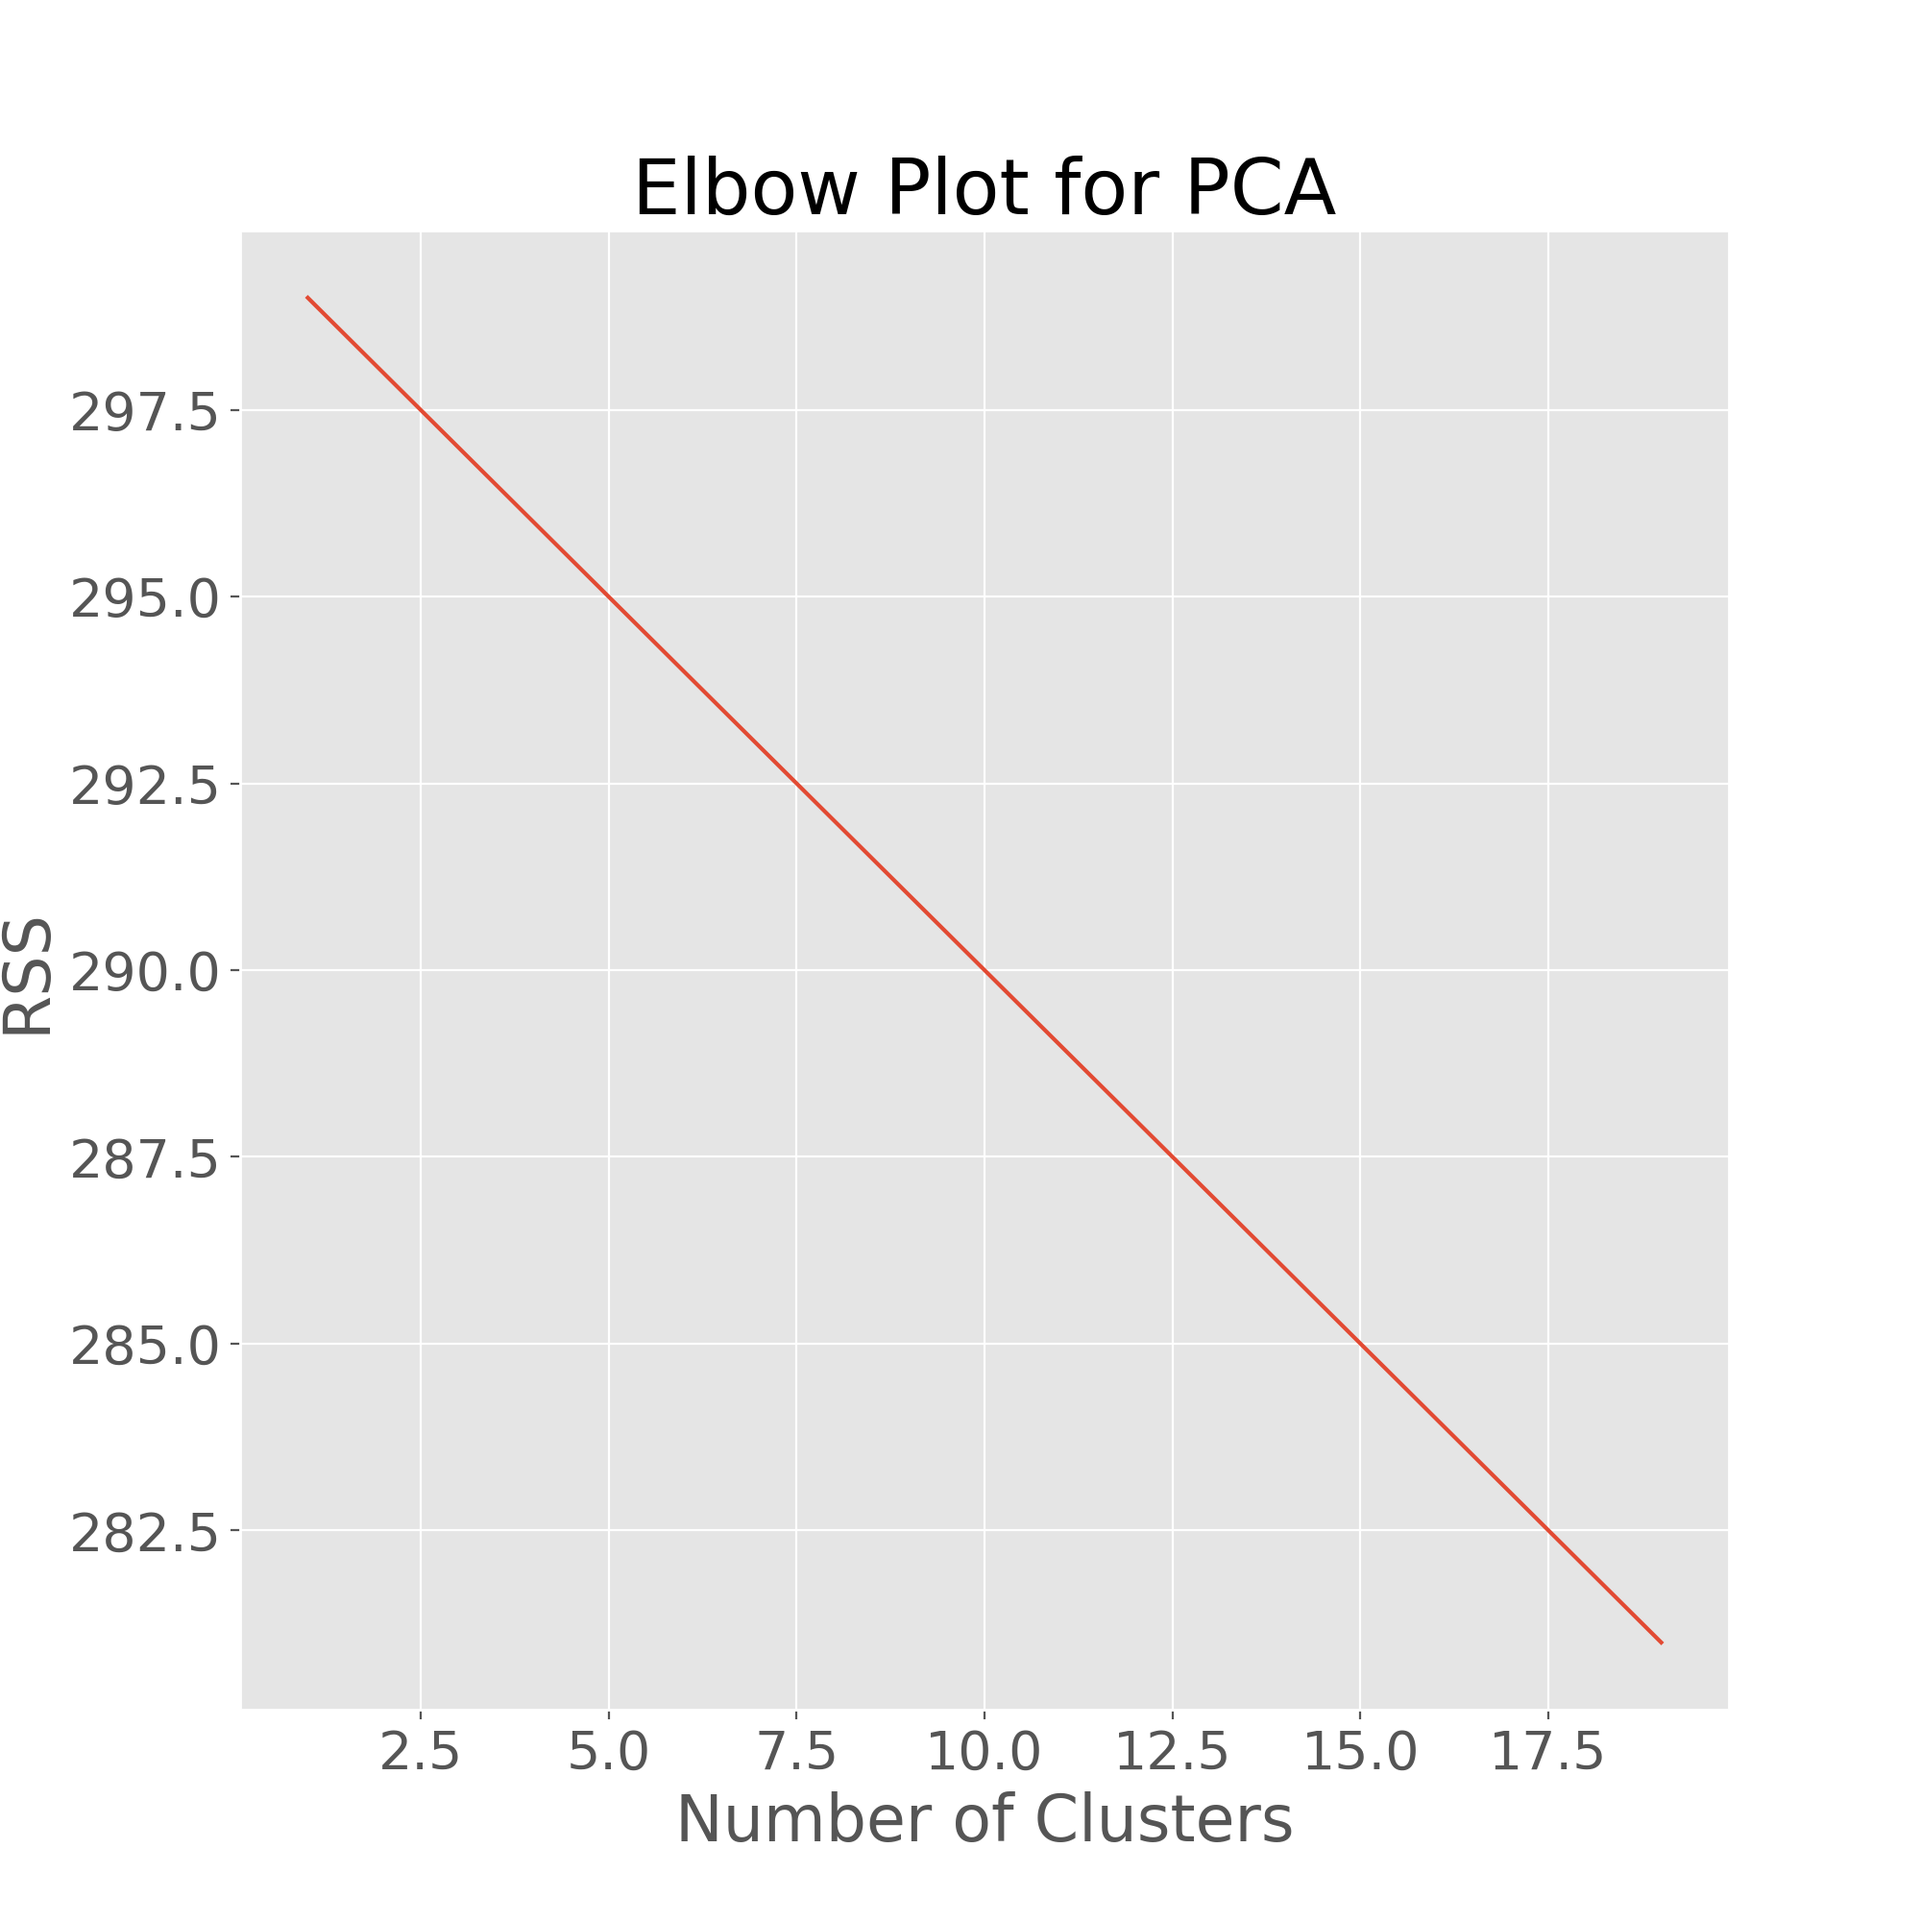
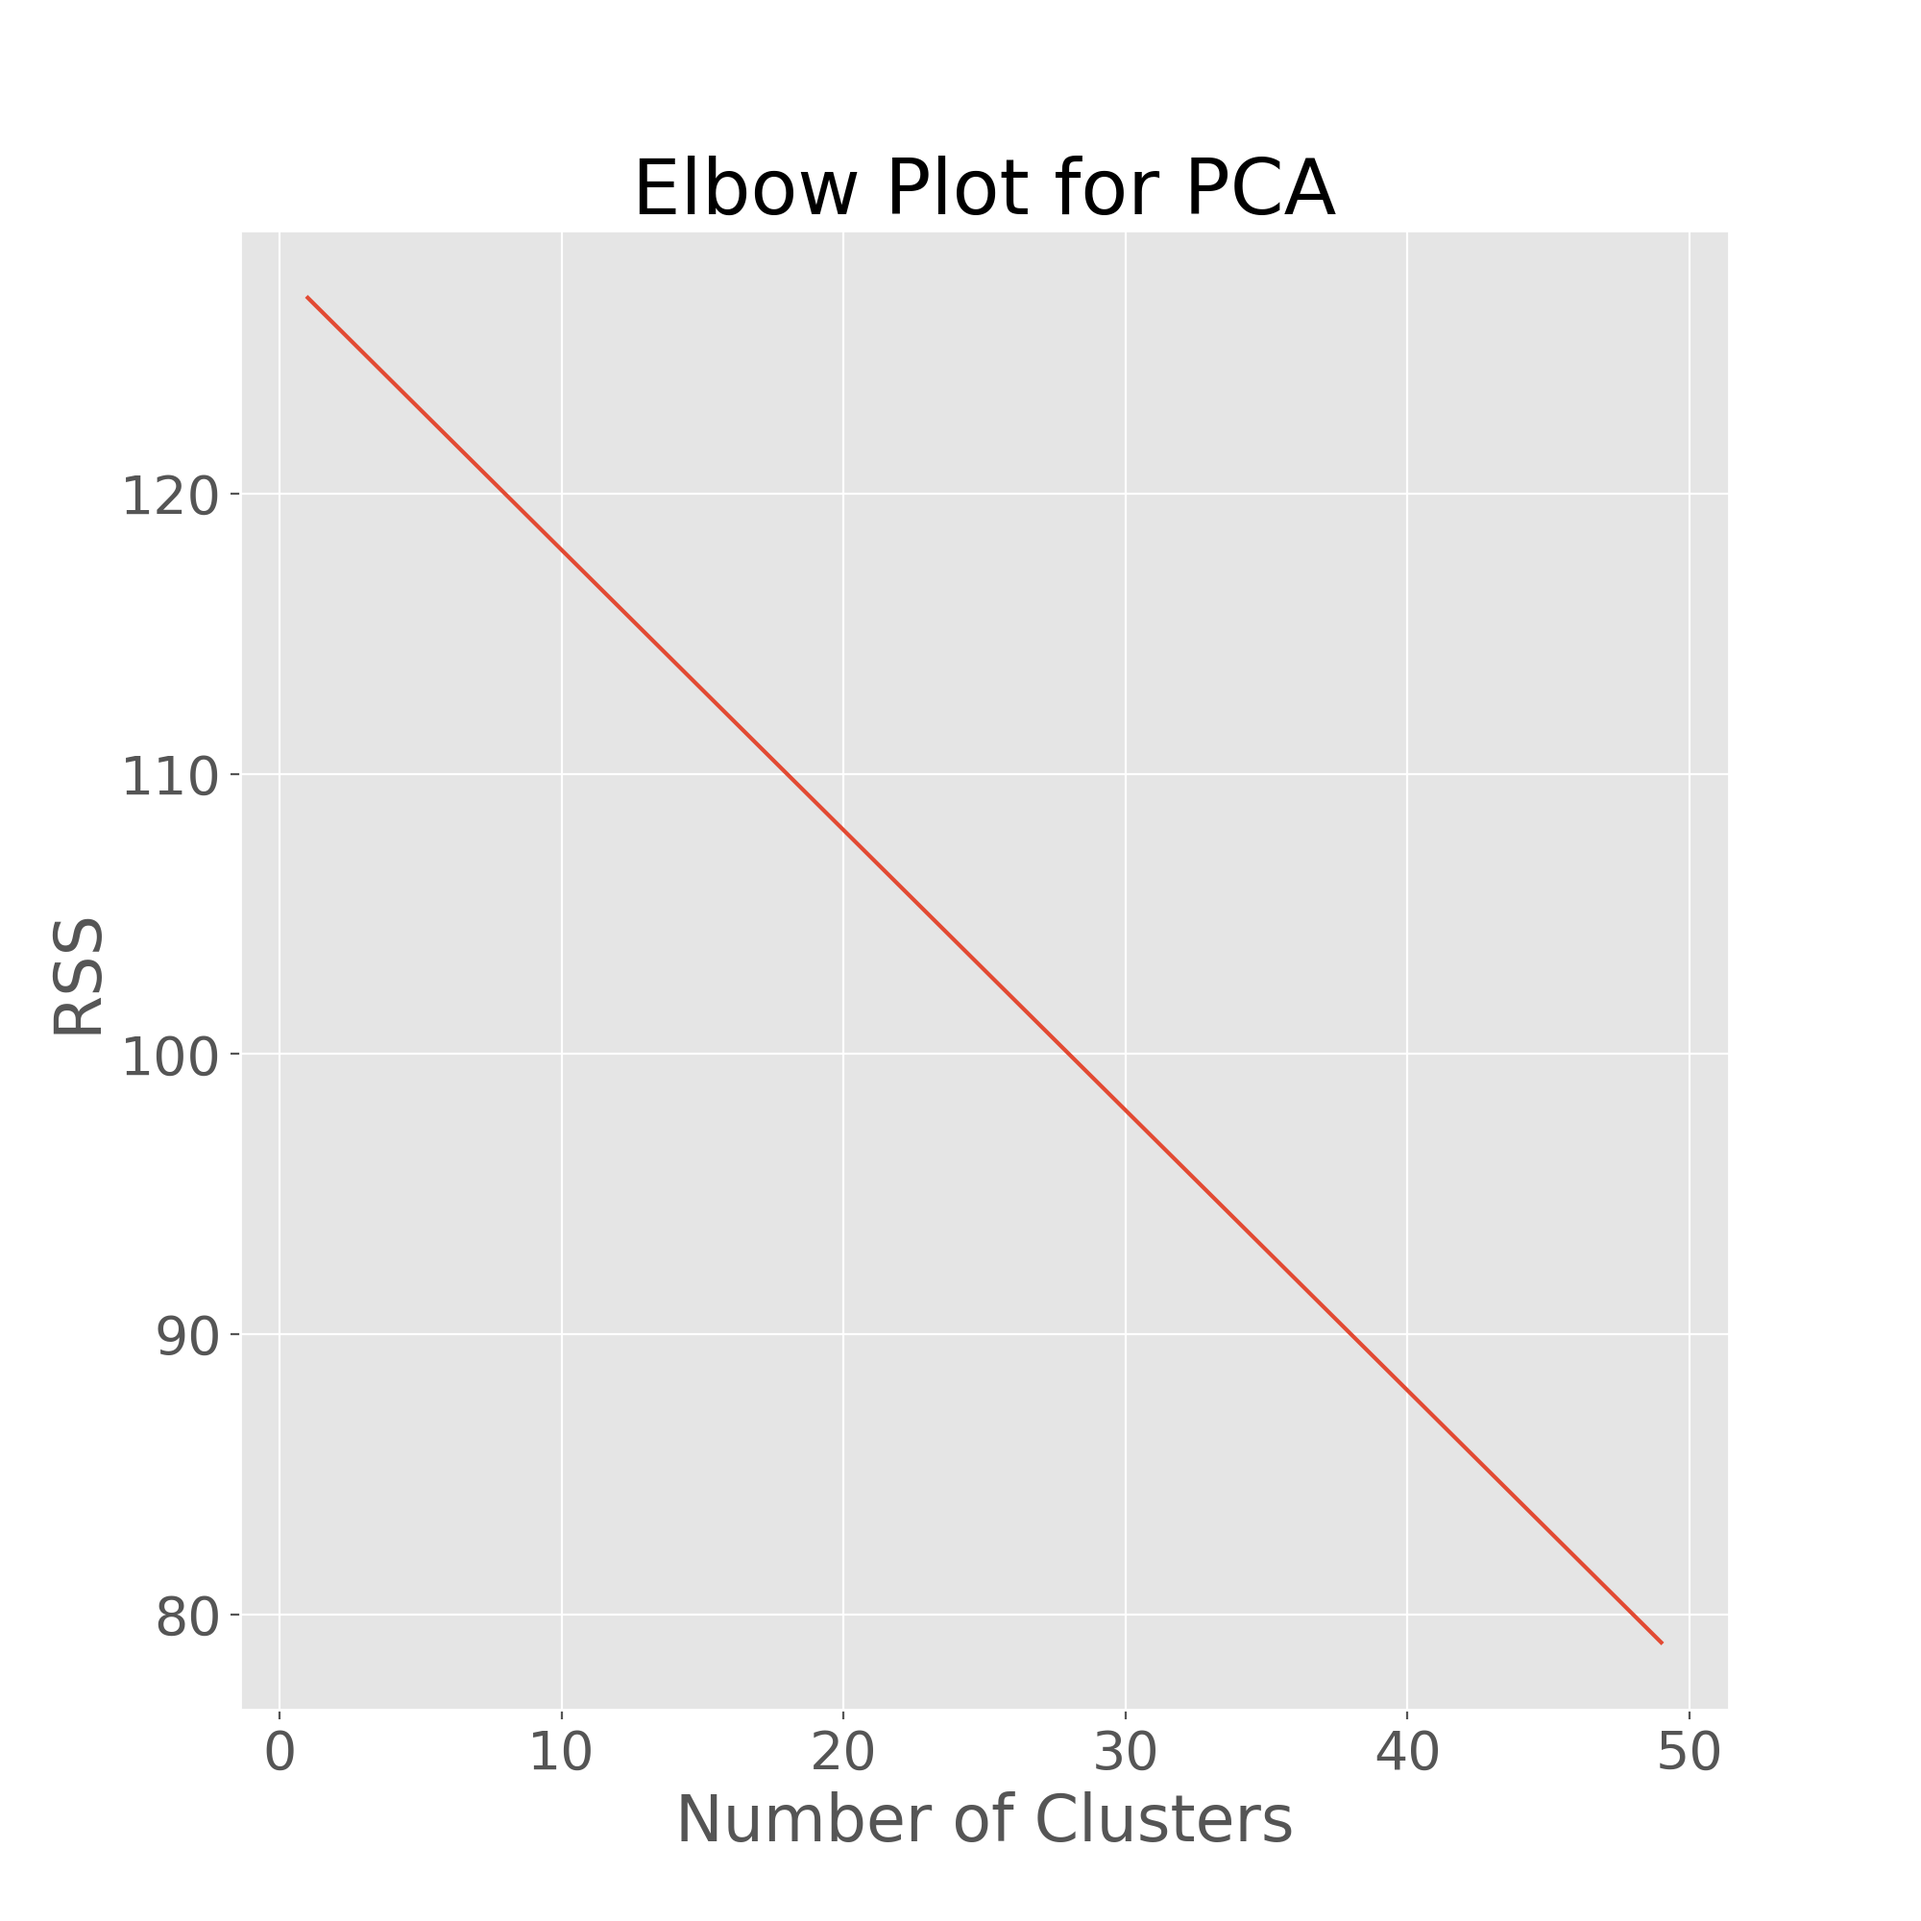
done with pca for now -2 app

diff --git a/src/pca_test.py b/src/pca_test.py
@@ -1,15 +1,17 @@
 # general imports
 import numpy as np
+import pdb
 
 # sklearn imports
 from sklearn.decomposition import PCA
 from sklearn.preprocessing import StandardScaler
 from sklearn.cluster import KMeans
+from sklearn.metrics import silhouette_samples, silhouette_score
 
 # other python files
 from data_pipelines import ImagePipeline
 from cnn_new import Autoencoder
-from plotting import pca_var_all, elbow_plot
+from plotting import pca_var_all, elbow_plot, six_hist
 
 
 
@@ -25,20 +27,39 @@ if __name__ == "__main__":
     X_gray = gray.X_gray
 
     # center data
-    scaler = StandardScaler()
-    X_rbg_ss = scaler.fit_transform(X_rgb['train'])
-    X_gray_ss = scaler.fit_transform(X_gray['train'])
+    # scaler = StandardScaler()
+    # X_rbg_ss = scaler.fit_transform(X_rgb['train'])
+    # X_gray_ss = scaler.fit_transform(X_gray['train'])
 
 
     # init pca
-    pca_rbg = PCA(n_components=300, random_state=33)
-    pca_rbg.fit(X_rbg_ss)
+    pca_rbg = PCA(n_components=128, random_state=33)
+    pca_rbg.fit(X_rgb['train'])
 
-    pca_gray = PCA(n_components=300, random_state=33)
-    pca_gray.fit(X_gray_ss)
+    pca_gray = PCA(n_components=128, random_state=33)
+    pca_gray.fit(X_gray['train'])
 
-    # pca_var_all(pca_rbg.explained_variance_ratio_, pca_gray.explained_variance_ratio_)
+    pca_var_all(pca_rbg.explained_variance_ratio_, pca_gray.explained_variance_ratio_)
 
     # cluster with kmeans, look at top 9 ims
-    elbow_plot(pca_rbg.components_, 20, 'color')
-    elbow_plot(pca_gray.components_, 20, 'gray')
+    elbow_plot(pca_rbg.components_, 50, 'color')
+    elbow_plot(pca_gray.components_, 50, 'gray')
+
+    kmeans_rbg = KMeans(n_clusters=20, init=pca_rbg.components_[:,:20], random_state=33)
+    kmeans_rbg.fit(pca_rbg.components_[:,:20])
+    rbg_labels = kmeans_rbg.labels_
+    # pdb.set_trace()
+    # rbg_sil = silhouette_samples(X_rbg_ss, rbg_labels)
+    avg_sil_score = silhouette_score(pca_rbg.components_,rbg_labels,metric='cosine')
+    print(avg_sil_score)
+
+    
+    # kmeans_gray = KMeans(7, random_state=33, algorithm='full')
+    # kmeans_gray.fit(pca_gray.components_)
+    # gray_labels = kmeans_gray.labels_
+    # gray_sil = silhouette_samples(pca_gray.components_, gray_labels)
+
+    # six_hist(rbg_sil, rbg_labels, 'color')
+    # six_hist(gray_sil, gray_labels, 'gray')
+
+

diff --git a/src/plotting.py b/src/plotting.py
@@ -98,7 +98,7 @@ def elbow_plot(latents, max_k,title):
 
     rss_lst = []
     for k in range(1, max_k):
-        kmeans = KMeans(k,random_state=33)
+        kmeans = KMeans(k, init=latents[:k,:],random_state=33)
         kmeans.fit(latents)
         rss_lst.append(kmeans.inertia_)
     
@@ -110,9 +110,21 @@ def elbow_plot(latents, max_k,title):
     plt.savefig('../images/pca_kmeans_elbow_{}.png'.format(title), dpi=200)
     plt.close('all')
 
-def silhouette_score(latents, num_clusters):
-    
+def silhouette(latents, num_clusters):
+    pass
 
+def six_hist(sil_values, labels, color):
+    fig, axes = plt.subplots(3,2, figsize=(10,10))
+    cluster_vals = np.unique(labels)
+
+    for ax, cluster in zip(axes.flatten(), cluster_vals):
+        ax.hist(sil_values[np.where(labels == cluster)], bins=50)
+        # ax.set_title('Cluster {}'.format(cluster))
+        ax.set_xlabel('Silhouette Score')
+        ax.set_ylabel('Count')
+    
+    plt.savefig('../images/six_sil_pca_{}.png'.format(color), dpi=200)
+    plt.close('all')
 
 if __name__ == "__main__":
     path = '/home/conslag/Documents/galvanize/capstones/homes-like-this/data/models'
